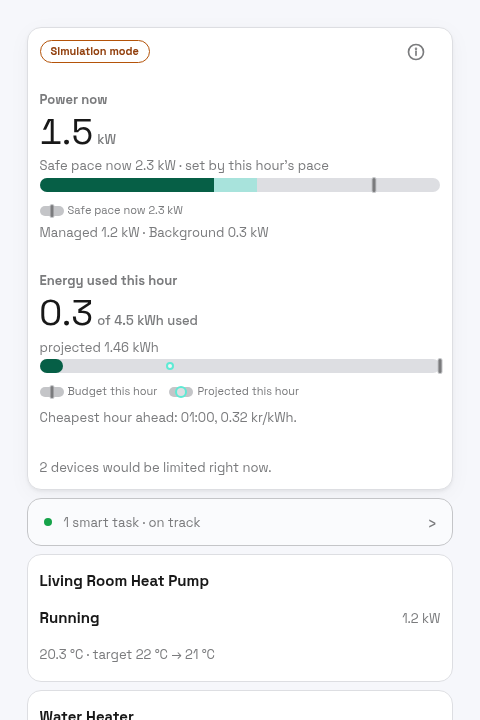
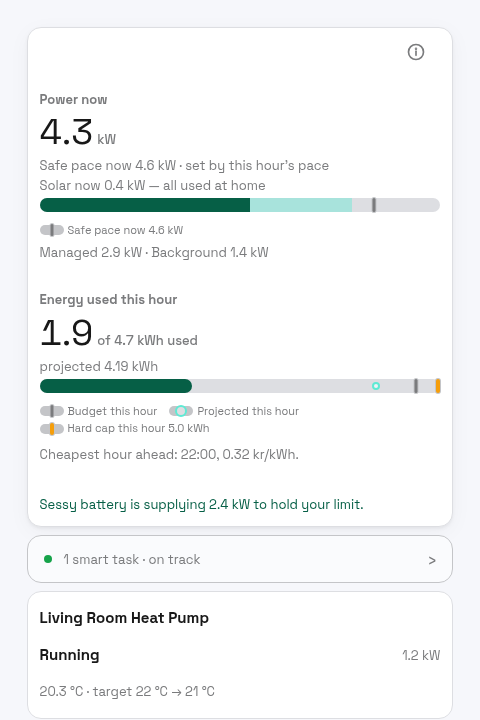
docs(battery): a home battery guide, and every page on how PELS ranks it
- New use case: "Solar and a home battery", for homes where exporting earns
  little or costs money. It covers what the battery's app must offer (Sessy
  and Marstek Venus as examples), where the battery sits in the priority list,
  how it shares solar and holds the limit on its turn, the Managed and
  Power-limit control switches, hand-back, setup steps, the card states and a
  day-long walkthrough.
- docs/solar.md: the battery section rewritten to the shipped behaviour, with
  battery screenshots and a link to the guide; country framing replaced with
  the situation it describes.
- how-pels-decides, glossary, technical, troubleshooting and meter-areas: the
  battery's place in the order, its card states, credit and hand-back rules,
  three troubleshooting entries, and meter-area batteries keeping their own
  mode.
- Landing screenshots recaptured from a home with solar and a battery; new
  battery Overview and device-page shots.

diff --git a/docs/solar.md b/docs/solar.md
@@ -7,7 +7,7 @@ description: Use more of your own rooftop solar with PELS, with capacity protect
 
 If you have rooftop solar (PV), this page explains what PELS does with it today.
 
-**Short version:** your solar protects your capacity for free, and PELS puts your surplus to work: it raises a heater's target, runs an on/off load such as a pool pump only while you export, or matches an EV charger's current to your surplus, instead of sending it to the grid. With a home battery, your surplus goes down your priority order, the battery included: last in the list (the default), your devices get the solar first and the battery stores the rest. When your home goes over its limit, the battery takes its turn in your priority order, and last in the list (the default) it covers your home before any device is limited. PELS also shows what your solar did: production, self-consumption, export, and the grid cost it avoided.
+**Short version:** your solar protects your capacity for free, and PELS puts your surplus to work: it raises a heater's target, runs an on/off load such as a pool pump only while you export, or matches an EV charger's current to your surplus, instead of sending it to the grid. With a home battery, your surplus goes down your priority order, the battery included, and when your home nears its limit the battery discharges on its turn. Left last in the list, the default, your devices get the sun first and the battery covers your whole home before any device is limited. PELS also shows what your solar did: production, self-consumption, export, and the grid cost it avoided.
 
 ::: warning Needs a signal that you export
 The solar features below need a signal that you are exporting — either a solar device that reports production, or a meter that shows your solar export.
@@ -35,7 +35,7 @@ How much this helps depends on your home and the weather.
 
 PELS watches your **net** grid power. When your panels cover part of the load, your net draw is lower, so there is more available power and PELS limits your managed devices less — exactly when the sun is out. This follows from how PELS measures power; there is nothing to turn on. See [Solar Accounting](./technical.md#solar-accounting).
 
-In Norway, exported solar still earns roughly the spot price, so self-consumption is a modest gain — here the bigger win from panels is this automatic capacity protection. Where exported energy earns little, or costs you (see below), using your own solar matters much more.
+Where exported solar earns roughly the spot price, self-consumption is a modest gain, and the bigger win from panels is this automatic capacity protection. Where exported energy earns little, or costs you (see below), using your own solar matters much more.
 
 ### Use solar surplus to heat your home
 
@@ -114,23 +114,43 @@ Three honest edges to know about:
 
 ### Home batteries
 
-PELS can work with a home battery whose Homey app lets Homey set how much the battery charges or discharges. Such an app usually has a control mode for this, called something like "Homey" or "API". PELS takes the battery over in that mode only while it has a job for it, and otherwise leaves it in the mode you chose in the battery's app, so the battery's own self-consumption or trading keeps working.
+PELS makes your home battery part of your priority list. Your sun goes to your devices and the battery in the order you choose, and when your home nears its limit, the battery takes its turn: PELS caps its charge, then has it discharge to cover the peak. Left last in the list, the default, the battery covers your whole home before a single device is turned down. For a full walkthrough with a sunny day and an evening, see [Solar and a home battery](./use-cases/homey-solar-home-battery.md).
 
-**Your mode choice takes precedence.** If you change the battery's control mode in its own app while PELS holds it, PELS leaves that choice alone, turns the battery's **Managed** switch off and stops controlling that battery until you turn Managed on again. Simulation mode stops PELS controlling all devices.
+<figure class="docs-figure">
+  <img class="docs-screenshot" src="/screenshots/battery/overview-supplying.png" alt="PELS Overview with the hero line Sessy battery is supplying 2.4 kW to hold your limit, and the battery card reading Supplying 2.4 kW, 62 % charged, Holding your limit so your devices keep running." />
+  <figcaption>The Overview while the battery holds your limit.</figcaption>
+</figure>
 
-**Solar surplus follows your priority order.** The battery's place in the priority list (described below) also decides who gets your surplus: it goes down the list, and what is left goes to the grid. Last in the list, the default, your devices get the solar first, then the battery. A battery's own mode usually stores any surplus before your devices see it, so PELS counts the solar the battery is storing as surplus the devices above the battery may use. When a device set to use surplus (a heater with "Use solar surplus", an on/off device that runs only on surplus, or a charger matching your surplus) ranks above the battery, is waiting to start, and that power could run it, PELS takes the battery over and lowers its charge by what the device needs. Once the device runs, the battery keeps the rest, and its charge drops at once if the surplus shrinks. A device ranked below the battery only gets the solar the battery leaves: PELS never lowers the battery's charge for it. Charging only uses solar you would otherwise export, so it never takes your home over its limit. PELS leaves the battery to its own mode in every other case: when no device above it is waiting, when the battery is discharging (stored energy is never offered to your devices), when it charges from the grid, for example in cheap night hours, and when it is full.
+**What it works with.** PELS works with a home battery whose Homey app lets Homey set how much it charges or discharges, and offers a Homey or API control mode. Sessy and Marstek Venus are examples. A Sessy needs its local login in the Sessy Homey app, so PELS can switch it to API control.
 
-**The battery takes its turn in your priority order.** The battery has a place in each mode's priority list, like your devices, and it is last by default. When your home goes over its limit, whether that is the capacity limit or your daily budget, PELS limits devices from the bottom of the list up. PELS may wait up to a minute before limiting a device when a device it just turned back on may still be starting up; a battery that comes before every device in that order is not kept waiting. When the battery's turn comes, PELS first caps its charge (grid charging counts against your limit and budget like any load), and then asks it to discharge enough to cover the rest. Devices below the battery in the list are limited before it; the devices above it are the ones its discharge protects. Last in the list, it covers your whole home before any device is limited. The battery protects what is already running: PELS does not use its discharge to turn more devices on. PELS gives a battery about 30 seconds to follow what it asks. If the battery has not followed by then, PELS stops counting on it and does not ask it for more: your devices are limited as they would be without it, and a battery that keeps ignoring PELS is handed back.
+**A managed device like any other.** The battery has a card on the Overview, a row in the device list and its own device page. The card leads with what the battery is doing (`Supplying`, `Charging`, `Limited · Charging` or `Own mode`), shows how full it is, and gives one reason line, such as `Holding your limit so your devices keep running`. While the battery holds your limit, the Overview hero says so: `Sessy battery is supplying 2.4 kW to hold your limit.`
 
-**Power-limit control.** The battery's device page has a Power-limit control switch, on by default. Turned off, PELS never limits the battery: it never caps its charge and never asks it to discharge for your limit. While Managed is on, its surplus works as above: it still stores spare solar, and still gives the devices above it the solar it would store. With Managed off, PELS leaves the battery out of your surplus entirely.
+**Its own mode keeps running until PELS needs it.** PELS takes the battery over in its Homey or API mode only while it has a job for it, and hands it back to the mode it was in when the job is done. The battery's own self-consumption, schedule or price trading keeps working the rest of the time.
 
-**Handing the battery back.** When PELS took the battery for a device, it switches it back to the mode it was in before about two minutes after no device above the battery needs that power any more: the device is satisfied, the surplus ended, or you moved the battery above the device in your priority list. It hands back a full battery at once. When it limited the battery, it hands it back like it resumes a device: in your priority order, once your home has room for the battery to charge again in its own mode. If PELS did not see the battery charging when it took it over, it waits for room for the battery's full charge rate. Devices below the battery in the list wait for the battery's turn. It also hands back a battery that leaves the Main home's plan after about two minutes. It hands back at once if the meter stops reporting, if the battery stops responding, or if you turn simulation mode on. If PELS restarts while it holds the battery, it hands the battery back when it starts again. A battery PELS holds at the moment you disable or uninstall PELS stays in Homey mode until you change it in the battery's app.
+**Solar surplus follows your priority order.** Your surplus goes down the list to your devices and batteries, and only what is left goes to the grid. With the battery last, your devices get the sun first, then the battery, then the grid. A battery's own mode usually stores the sun before your devices see it, so PELS counts what the battery is storing as surplus for the devices above it: when a device set to use surplus (a heater with **Use solar surplus**, an on/off device with **Run on solar surplus**, or a charger with **Charge on solar surplus**) ranks above the battery and is waiting to start, PELS lowers the battery's charge so the device can run. A battery above a device keeps its charge, and the device gets what the battery leaves. Stored energy is never spent on surplus: PELS only moves solar you would otherwise export, so sharing it never takes your home over its limit.
 
-PELS controls a supported battery in your Main home by default, for as long as the battery stays opted in; a battery in a [meter area](/meter-areas) keeps to its own mode. It uses the battery's own limits: how far the battery charges or discharges is up to the battery and its app. Simulation mode leaves the battery in its own mode too.
+**The battery holds your limit on its turn.** When your home goes over its limit, whether that is the capacity limit or your daily budget pace, PELS limits in priority order, from the bottom of the list up. When the battery's turn comes, PELS first caps its charge, then asks it to discharge enough to cover the rest. Devices below the battery are limited before it, and its discharge protects every device above it. Grid charging counts against your limit and your daily budget like any other load, so a battery that starts its own cheap-hour charging while your car charges is capped before the car is slowed. An empty battery, or one that does not follow, delivers nothing, and PELS moves straight on to the next device.
+
+**Bringing it back.** After a limit, the battery comes back like any device: in your priority order, once your home has room for it to charge in its own mode again, PELS hands it back to the mode it was in. After sharing solar, PELS hands it back about two minutes after no device above it needs that power, and a full battery at once.
+
+**You stay in charge.** On the battery's device page:
+
+<figure class="docs-figure">
+  <img class="docs-screenshot" src="/screenshots/battery/device-page.png" alt="PELS device page for a Sessy battery: Supplying 2.4 kW, Managed by PELS on, Power-limit control on, Priority 9 of 9 in Home with a Reorder button." />
+  <figcaption>The battery's device page.</figcaption>
+</figure>
+
+- **Managed by PELS** is the battery's main switch. Off, PELS hands the battery back and leaves it alone.
+- **Power-limit control** is on by default. Off, PELS never caps the battery's charge or calls on it for your limit, and the battery still stores your spare solar in priority order. The **Enable power-limit control for device** and **Disable power-limit control for device** Flow cards work on batteries too.
+- **Priority** shows the battery's place in the current mode, and **Reorder** moves it.
+
+If you change the battery's mode in its own app while PELS holds it, PELS takes that as your decision: it turns **Managed by PELS** off for that battery, says so on its device page, and leaves it alone until you turn it on again.
+
+PELS also hands the battery back at once if your meter stops reporting or the battery stops responding, and when PELS restarts it hands back every battery it held. If you uninstall PELS while it holds the battery, switch the battery's mode back in its own app. A battery in a [meter area](/meter-areas) keeps its own mode, and Simulation mode leaves every battery in its own mode too.
 
 ## Export pricing
 
-In some markets, exported solar is worth far less than the power you would otherwise buy — and in some it can cost you. In the Netherlands, the end of net metering (*salderingsregeling*) from 2027 means suppliers increasingly charge for exported power (*terugleverkosten*): exporting can actively cost money, so using your own solar becomes a direct saving rather than a smaller return.
+Exported solar is often worth far less than the power you would otherwise buy, and on some contracts it costs you: when net metering ends or your supplier charges a fee for feeding in, every kilowatt-hour you export can cost money, so using your own solar becomes a direct saving rather than a smaller return.
 
 PELS lets you tell it what exported power is worth to you. Under **Settings > Electricity prices**, turn on **"Use an export price"** (the section appears once PELS can see your solar, meaning a managed solar device reports production or your meter has recorded about a kilowatt-hour of grid export, and stays visible if you already have an export price configured).
 
@@ -158,3 +178,4 @@ Your money figures stay honest: receipts, usage costs, and the budget's money vi
 - [Cost-Saving Functions](./cost-saving-functions.md)
 - [Configure an EV Charger](./ev-charger.md)
 - [Smart Tasks](./smart-tasks.md)
+- [Solar and a home battery](./use-cases/homey-solar-home-battery.md)

diff --git a/docs/use-cases/homey-solar-home-battery.md b/docs/use-cases/homey-solar-home-battery.md
@@ -1,0 +1,117 @@
+---
+title: Solar and a home battery with Homey, when exporting earns little or costs you
+description: Use PELS on Homey Pro to put your own solar into your car, hot water and home battery in the order you choose, and let the battery hold your limit in the evening before any device is turned down.
+---
+
+# Solar and a home battery with Homey, when exporting earns little or costs you
+
+When the grid pays little for the power you send back, or charges you for it, every kilowatt-hour you keep at home is worth the full import price. Solar panels and a home battery give you the energy. PELS decides where it goes.
+
+PELS puts your home battery into your priority list, right next to your EV charger, water heater and heating. Your sun goes down that list in your order, and when the house nears its limit, the battery takes its turn: PELS caps its charge, then has it discharge to cover the peak. Leave it last, the default, and the battery covers the whole house before a single device is turned down.
+
+## When this is useful
+
+Use this setup when you have solar panels and a home battery paired with Homey, and exported power earns little or costs you. It pays off even more on dynamic hourly or quarter-hour prices, with a capacity tariff, or with a daily budget.
+
+## What PELS needs from your battery
+
+The battery's Homey app must let Homey set how much the battery charges and discharges, and offer a Homey or API control mode. Sessy and Marstek Venus are examples of batteries whose apps work this way.
+
+A Sessy needs its local login in the Sessy Homey app, so PELS can switch it to API control.
+
+## Your battery keeps its own mode until PELS has a job for it
+
+Self-consumption, the battery's own price trading and its own schedule keep running as usual. PELS takes the battery over only while it has a job for it: sharing your solar in priority order, or holding your limit when its turn comes. When the job is done, PELS hands the battery back to the mode it was in.
+
+The battery shows up like any other managed device: a card on the **Overview**, a row in the device list and its own device page.
+
+<figure class="docs-figure">
+  <img class="docs-screenshot" src="/screenshots/battery/overview-supplying.png" alt="PELS Overview with the hero line Sessy battery is supplying 2.4 kW to hold your limit, and the battery card reading Supplying 2.4 kW, 62 % charged, Holding your limit so your devices keep running." />
+  <figcaption>The Overview while the battery holds the limit: the hero says so in one line, and the battery's card shows what it is doing.</figcaption>
+</figure>
+
+## Your priority list decides everything
+
+The battery has a place in each mode's priority list, like your devices. It is last by default, and you move it with **Reorder** on its device page or on the **Modes** page.
+
+That one place decides two things:
+
+- **Who gets the sun.** Solar surplus goes to your devices and batteries in priority order, and only what is left goes to the grid. With the battery last, your devices get the sun first, then the battery, then the grid. A device ranked below the battery gets what the battery leaves. A device ranked above it gets the solar first: if it is waiting to start, PELS lowers the battery's charge so the device can run.
+- **Who is limited first, and who the battery protects.** When the house nears its limit, PELS limits in priority order, from the bottom up. When the battery's turn comes, PELS first caps its charge, then asks it to discharge enough to cover the rest. Devices below the battery are limited before it, and its discharge protects every device above it. Last in the list, it covers your whole home before any device is limited.
+
+So if the battery starts its own cheap-hour charging from the grid while the car is charging, PELS caps the battery's charge, not the car. And at the dinner peak, a battery last in the list discharges so the heating, hot water and car keep running.
+
+When the battery is empty, or does not follow what PELS asks, PELS simply moves on to the next device, exactly as in a home without a battery. Your limit holds either way.
+
+## On the device page
+
+<figure class="docs-figure">
+  <img class="docs-screenshot" src="/screenshots/battery/device-page.png" alt="PELS device page for a Sessy battery: Supplying 2.4 kW, Managed by PELS on, Power-limit control on, Priority 9 of 9 in Home with a Reorder button." />
+  <figcaption>The battery's device page: Managed by PELS, Power-limit control and its place in the priority order.</figcaption>
+</figure>
+
+- **Managed by PELS** is the battery's main switch. Turn it off and PELS hands the battery back to its own mode and leaves it there until you turn it on again.
+- **Power-limit control** is on by default. Turn it off and PELS never caps the battery's charge or calls on it to hold your limit, and the battery still stores your spare solar in priority order. The **Enable power-limit control for device** and **Disable power-limit control for device** Flow cards work on the battery too, so a Flow can decide when the battery may hold your limit.
+- **Priority** shows the battery's place in the current mode, for example `9 of 9 in Home`, and **Reorder** moves it.
+
+If you change the battery's mode in its own app while PELS holds it, PELS takes that as your decision: it turns **Managed by PELS** off for that battery and leaves it alone until you turn it back on. The device page says so in a notice.
+
+## What the battery card says
+
+| Card | What it means |
+| --- | --- |
+| `Supplying` · `Holding your limit so your devices keep running` | The battery discharges so the house stays under its limit. The Overview hero adds a line such as `Sessy battery is supplying 2.4 kW to hold your limit.` |
+| `Charging` · `Storing the solar power your devices leave` | PELS holds the battery for a device above it, and lets it store the solar that device leaves. |
+| `Charging` · `Charging less so a device can use the solar` | PELS lowered the battery's charge so a device above it can run on the sun. |
+| `Limited · Charging` · `Waiting to charge faster` | PELS capped the battery's charge at its place in the priority order, and gives the rest back as the house has room. |
+| `Own mode` · `PELS takes over when your limit or solar needs it` | PELS has no job for the battery right now; its own app is in charge. |
+| `Own mode` · `PELS uses it only to store spare solar` | **Power-limit control** is off for the battery. |
+
+The fact line shows how full the battery is, such as `62 % charged`. While PELS holds the battery, its own app shows Homey or API mode. That is PELS at work, and the mode you chose returns when PELS hands it back.
+
+## When PELS hands the battery back
+
+- **After a limit.** Bringing the battery back is a normal resume in your priority order: once the house has room for the battery to charge in its own mode again, PELS hands it back to the mode it was in.
+- **After sharing solar.** About two minutes after no device above the battery needs that power any more, PELS hands it back. A full battery is handed back at once.
+- **At once** if the power meter stops reporting, or the battery stops responding.
+- **When PELS restarts.** PELS keeps a record of every battery it holds, and hands each one back as it starts again.
+
+If you uninstall PELS while it holds the battery, switch the battery's mode back in its own app.
+
+## Set it up
+
+1. **Measure whole-home power with export.** Use the **Power meter** power source through [Homey Energy](../homey-energy.md#power-metering-via-homey-energy), or send a signed reading to the **Report power usage** Flow card, so the value goes negative while you export.
+2. **Check that export is visible.** On a sunny day the Overview shows a line such as *"Solar now 3.2 kW, 1.1 kW at home, 2.1 kW exported"*, and the Solar card on the Usage tab counts **Exported**.
+3. **Turn on Managed by PELS for the battery.** Find it under **Settings > Devices**. **Power-limit control** is already on.
+4. **Set an export price.** Under **Settings > Electricity prices**, turn on **Use an export price**. With Homey Energy prices on a dynamic contract, set **Where the price comes from** to **Homey Energy** so PELS follows the feed-in price you already set up in Homey. A fixed amount can be negative if you pay to export. See [Export pricing](../solar.md#export-pricing).
+5. **Point devices at the sun.** Turn on **Use solar surplus** on heating and water heaters, **Run on solar surplus** on on/off loads such as a pool pump, and **Charge on solar surplus** on the EV charger. See [Solar and Self-Consumption](../solar.md).
+6. **Place the battery in your priority list.** Leave it last to give your devices the sun first and to cover the whole house at a peak, or move it up if filling the battery for the evening matters more. See [Configuration](../configuration.md#settings-modes).
+7. **Add Smart tasks for what must be ready.** A car charged by 07:00 or hot water by morning goes into a [Smart task](../smart-tasks.md), and PELS picks the cheapest hours before the deadline.
+
+## A sunny day and an evening
+
+Take a home with a 5 kW hard cap, 6 kW of panels, a 10 kWh battery, a water heater with **Use solar surplus**, and an EV charger with **Charge on solar surplus**. The battery is last in priority.
+
+**10:00.** The panels make 3 kW and the house uses 1 kW. The water heater's target is raised, and it takes the surplus first. The battery's own mode stores what is left: its card reads `Own mode` · `PELS takes over when your limit or solar needs it`, with `· charging` on the fact line.
+
+**12:30.** The car comes home and plugs in. The battery is already storing the sun, so PELS lowers its charge: `Charging less so a device can use the solar`. The car charges on the sun ahead of the battery, and the battery takes the rest. Almost nothing goes to the grid.
+
+**16:00.** The car is full and the sun is fading. The battery takes every watt of surplus. About two minutes later PELS hands it back, and its own mode stores the rest.
+
+**18:00.** Dinner, floor heating and the dishwasher push the house past its safe pace. The battery is last in the list, so its turn comes first: `Supplying` · `Holding your limit so your devices keep running`, and the hero reads `Sessy battery is supplying 2.4 kW to hold your limit.` No device is turned down, and the hour stays under 5 kW.
+
+**21:30.** The battery is empty. PELS limits the floor heating in priority order, exactly as it would without a battery, and the hard cap still holds.
+
+**02:00.** The battery's own schedule charges from the grid in a cheap hour, while a Smart task charges the car for the morning. As the house nears its limit, PELS caps the battery's charge first: `Limited · Charging`. The car finishes on time. When the house has room again, the battery's charge comes back in priority order and PELS hands it back to its own mode.
+
+The battery's charging from the grid counts against your [daily budget](../daily-budget.md) like any other load.
+
+## Related setup guides
+
+- [Solar and Self-Consumption](../solar.md)
+- [Using Homey Energy](../homey-energy.md)
+- [How PELS Decides](../how-pels-decides.md)
+- [Smart Tasks](../smart-tasks.md)
+- [Configuration](../configuration.md)
+- [EV charging under a power limit](./homey-ev-charging-power-limit.md)
+- [Troubleshooting a home battery](../troubleshooting.md#pels-isn-t-using-my-battery)

diff --git a/docs/troubleshooting.md b/docs/troubleshooting.md
@@ -231,6 +231,67 @@ The banner above the Overview tells you which state you are in:
 - **Battery percentage doesn't appear:** if the value lives on the car device
   rather than the charger, use **Report battery level for charger**.
 
+## My battery is stuck in Homey or API mode
+
+While PELS holds your home battery, the battery's own app shows its Homey or API
+mode. That is PELS at work: the battery's card on the Overview reads
+**Supplying**, **Charging** or **Limited · Charging** and says why. When the
+job is done, PELS hands it back to the mode it was in; after a limit, that
+happens at the battery's turn in your priority order, once your home has room
+for it to charge again. PELS also hands it back at once if your meter stops
+reporting, and when PELS restarts.
+
+- **Want it back now?** Turn off **Managed by PELS** on the battery's device
+  page (Settings → Devices → the battery). PELS hands it back and leaves it alone.
+- **Changed the mode in the battery's app?** PELS takes that as your decision and
+  turns **Managed by PELS** off for the battery. Turn it on again when you want
+  PELS to use the battery.
+- **Uninstalled PELS while it held the battery?** Switch the mode back in the
+  battery's own app.
+
+## PELS isn't using my battery
+
+Check these, in order:
+
+- **Managed by PELS is off.** Turn it on for the battery (Settings → Devices).
+  If the device page shows a notice that you changed its mode in the battery
+  app, PELS stepped back on purpose; turning **Managed by PELS** on again hands
+  the battery to PELS.
+- **Power-limit control is off.** The battery then only stores your spare solar,
+  and its card reads `PELS uses it only to store spare solar`. Turn on
+  **Power-limit control** so it can hold your limit on its turn.
+- **The battery is in a [meter area](/meter-areas).** A battery in a meter area
+  keeps its own mode; PELS uses batteries in the Main home.
+- **Simulation mode is on.** PELS leaves every battery in its own mode while
+  simulating (Settings → Simulation mode).
+- **A Sessy signed in with its cloud login.** PELS needs the local login in the
+  Sessy Homey app to switch the battery to API control. Switch the battery to
+  its local login in that app.
+- **The battery's app cannot take commands from Homey.** PELS needs an app that
+  lets Homey set the battery's charge and discharge power, and offers a Homey or
+  API mode. Sessy and Marstek Venus are examples of apps that do.
+
+The card reads `PELS takes over when your limit or solar needs it` when
+everything is set up and PELS simply has no job for the battery right now. Its
+place in your priority order matters too: a battery high in the list only
+discharges once the devices below it are limited. See
+[Solar and a home battery](/use-cases/homey-solar-home-battery).
+
+## My battery's night charge stopped
+
+If your battery charges from the grid on its own schedule, for example in cheap
+night hours, that charging is a load like any other. When your home nears its
+limit, PELS limits in priority order, and the battery's charging is capped at its
+place in the list: its card reads **Limited · Charging** with
+`Waiting to charge faster`. This is how your car or heating keeps running instead.
+The charge comes back in priority order once your home has room, and the battery
+returns to its own schedule.
+
+To let the night charge go ahead of other devices, move the battery up in your
+priority list (its device page → **Reorder**, or the **Modes** page). To keep
+PELS from ever capping it, turn off **Power-limit control** on the battery; it
+still stores your spare solar.
+
 ## A device doesn't appear in PELS
 
 - The device must expose a supported capability and device class (a temperature

diff --git a/docs/index.md b/docs/index.md
@@ -22,8 +22,8 @@ editLink: false
   </div>
   <div class="landing-panel landing-panel-accent">
     <figure class="landing-screenshot-frame">
-      <img class="landing-screenshot" src="/screenshots/landing-overview.png" alt="PELS Overview tab showing whole-home power now, the Safe pace now marker, and which managed devices are limited or resuming" />
-      <figcaption>The overview shows current whole-home power, the Safe pace now marker, and which devices PELS is limiting or resuming.</figcaption>
+      <img class="landing-screenshot" src="/screenshots/landing-overview.png" alt="PELS Overview tab showing whole-home power now, the Safe pace now marker, live solar production, and a home battery supplying 2.4 kW to hold the limit" />
+      <figcaption>The overview shows current whole-home power, the Safe pace now marker, your solar right now, and what PELS is doing to hold your limit.</figcaption>
     </figure>
   </div>
 </section>
@@ -76,9 +76,9 @@ editLink: false
 
   ### Use more of your own solar
 
-  With solar panels, PELS puts your surplus to work in hot water, heating or the car, even behind an inverter limited to zero export, and the Usage tab shows what your panels produced and what that saved you. A home battery charges from the surplus your devices leave and, at its place in your priority order, discharges to hold your limit, by default before anything is turned down.
+  With solar panels, PELS puts your surplus to work in hot water, heating or the car, even behind an inverter limited to zero export, and the Usage tab shows what your panels produced and what that saved you. A home battery joins your priority list: your sun goes to devices and the battery in your order, and when the house nears its limit the battery discharges on its turn, by default before anything is turned down.
 
-  [Solar and Self-Consumption](./solar.md) · [Solar accounting](./technical.md#solar-accounting)
+  [Read the solar and home battery use case](./use-cases/homey-solar-home-battery.md) · [Solar and Self-Consumption](./solar.md) · [Solar accounting](./technical.md#solar-accounting)
 
   ### Use Home, Away and Night for different energy behavior
 
@@ -110,11 +110,11 @@ editLink: false
       </article>
       <article class="landing-card landing-card-with-screenshot">
         <figure class="landing-card-media">
-          <img class="landing-card-screenshot" src="/screenshots/landing-usage.png" alt="PELS Usage tab showing an hourly energy bar chart of managed and background power use" />
-          <figcaption>Usage shows hourly and daily energy history so you can see how the home behaves over time.</figcaption>
+          <img class="landing-card-screenshot" src="/screenshots/landing-usage.png" alt="PELS Usage tab showing today's grid energy, the solar the home used itself, and the Solar card with production, use at home and export by day" />
+          <figcaption>Usage shows your energy history and what your solar did: produced, used at home and exported.</figcaption>
         </figure>
         <h3>Usage and insights</h3>
-        <p>See how much power you are using, track hourly and daily totals, and understand your home's consumption patterns over time.</p>
+        <p>See how much power you are using, track hourly and daily totals, and see how much of your own solar your home used instead of sending it to the grid.</p>
         <a href="insights-device.html">Open PELS Insights docs</a>
       </article>
       <article class="landing-card landing-card-with-screenshot">

diff --git a/docs/technical.md b/docs/technical.md
@@ -175,6 +175,20 @@ For EV chargers, resume is only attempted while the charger can actually be driv
 
 ---
 
+## Home Battery
+
+A managed home battery is a limiting candidate at its place in the mode's priority list (last by default). When the [Limiting Order](#limiting-order) reaches it, PELS first caps its charge, then raises its discharge to cover the remaining overshoot. The discharge always leaves a small import under the house's draw (half the battery's own power step, at least 100 W), so holding the limit never pushes the house into export.
+
+- **Credit while the battery settles.** A battery needs a moment to follow a new setpoint. For up to **30 seconds** after PELS caps a charge or raises a discharge, the relief it asked for counts as already delivered, so PELS does not limit extra devices for power that is on its way.
+- **No credit for a battery that does not follow.** Once those 30 seconds pass, a limit the battery has not followed counts for nothing: PELS stops asking it for more and limits the next devices as it would without a battery. A battery that keeps ignoring PELS is handed back. An empty battery delivers nothing, so PELS moves on in the same way.
+- **Hand-back through resume.** Leaving a limit is a resume in priority order, under the same gates as any device: the resume cooldowns, meter settling, one resume per cycle, and the hysteresis buffer. PELS hands the battery back once the house has room for the charge its own mode will take; if PELS did not see it charging when it took over, it waits for room for the battery's full charge rate. Devices below the battery wait for its turn, so a smaller device lower in the order cannot take the room first every cycle. The discharge PELS holds is never spent on a hand-back: the battery steps its discharge down first.
+- **Restart record.** Before PELS first switches a battery to its Homey or API mode, it saves the mode the battery was in. The record is removed only after the battery has been handed back, so after a restart or a crash PELS hands back every battery it still holds, to the mode it saved.
+- **Power-limit control.** On by default. Off, the battery is never a limiting candidate, and while **Managed by PELS** is on it still takes part in sharing solar surplus in priority order. The **Enable/Disable power-limit control for device** Flow cards set it like any device's.
+
+Grid charging counts toward the hard cap and the daily budget like any load. On a meter outage the one-time fail-closed pass hands the battery back instead of raising its discharge, and Simulation mode hands it back too.
+
+---
+
 ## Power Estimation
 
 PELS needs to estimate how much power a device will draw when turned on. One ordered ladder decides it, and it always produces a number — there is no "unknown" left for a consumer to interpret:

diff --git a/docs/glossary.md b/docs/glossary.md
@@ -143,10 +143,21 @@ your source publishes 15-minute prices.
 ## Solar
 
 ### Solar surplus
-Solar power available beyond what your home is using right now — either exported to
+Solar power available beyond what your home is using right now: either exported to
 the grid or inferred when a zero-export inverter throttles production to match the
 house. PELS can steer flexible devices to soak it up instead of exporting it cheaply.
+Devices and home batteries share it in [priority](#priority) order: with the battery
+last, the default, your devices get the sun first, then the battery, then the grid.
 See [Solar and Self-Consumption](/solar).
+
+### Home battery
+A battery paired with Homey whose app lets PELS set how much it charges or
+discharges. It is a managed device with its own Overview card (**Supplying**,
+**Charging**, **Limited · Charging** or **Own mode**) and a place in your priority list, last by default.
+PELS uses it to share your solar surplus and, on its turn, to hold your limit:
+first by capping its charge, then by discharging. **Managed by PELS** turns this
+on or off, and **Power-limit control** decides whether it may hold your limit. See
+[Solar and a home battery](/use-cases/homey-solar-home-battery).
 
 ### Use solar surplus / Run on solar surplus
 Per-device settings for prosumers. **Use solar surplus** lifts a device's target

diff --git a/docs/how-pels-decides.md b/docs/how-pels-decides.md
@@ -62,6 +62,19 @@ the least important device (highest priority number) goes first, the most
 important stays running longest. Priorities are per [mode](/glossary#mode), so
 your bedroom can outrank the water heater at night and not during the day.
 
+### Where a home battery fits
+
+A [home battery](/glossary#home-battery) has a place in that same list, last by
+default. When its turn comes, PELS first caps the battery's charge, then asks it
+to discharge enough to cover the rest. Discharge happens only on the battery's
+turn: the devices below it are limited first, and every device above it is
+protected. Left last, the battery's turn comes before any device's, so it covers
+the whole house before anything is turned down. An empty battery delivers
+nothing, and PELS moves on to the next device. The same order shares your
+[solar surplus](/glossary#solar-surplus): devices above the battery get the sun
+first, then the battery, then the grid. See
+[Solar and a home battery](/use-cases/homey-solar-home-battery).
+
 ## How PELS brings devices back
 
 As power frees up, PELS resumes devices in the **opposite** order — most important

diff --git a/docs/meter-areas.md b/docs/meter-areas.md
@@ -222,6 +222,10 @@ priorities. The Budget and Smart tasks pages say so once you have meter areas,
 and PELS tells you if you set a smart task on a device that lives in a meter
 area.
 
+A [home battery](/glossary#home-battery) in a meter area keeps its own mode.
+PELS shares solar with home batteries and calls on them to hold your limit in
+the Main home; in an area, the battery's own app stays in charge.
+
 Flow cards split three ways. Cards that act on a **device** work wherever that
 device lives, including inside a meter area: turning power-limit control on or
 off for it, budget exemptions, **Is device managed by PELS?**, expected power
